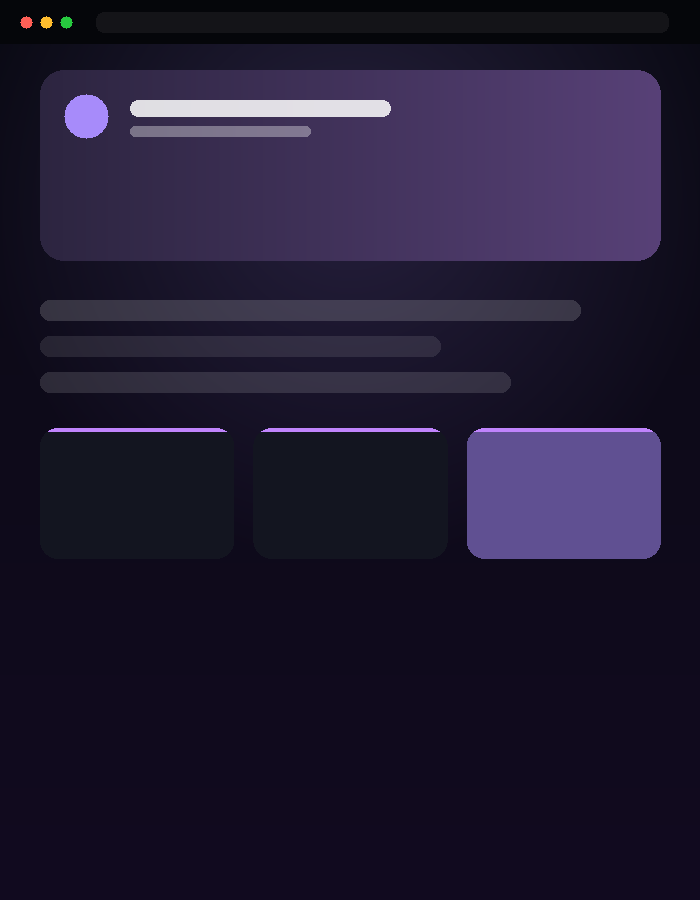
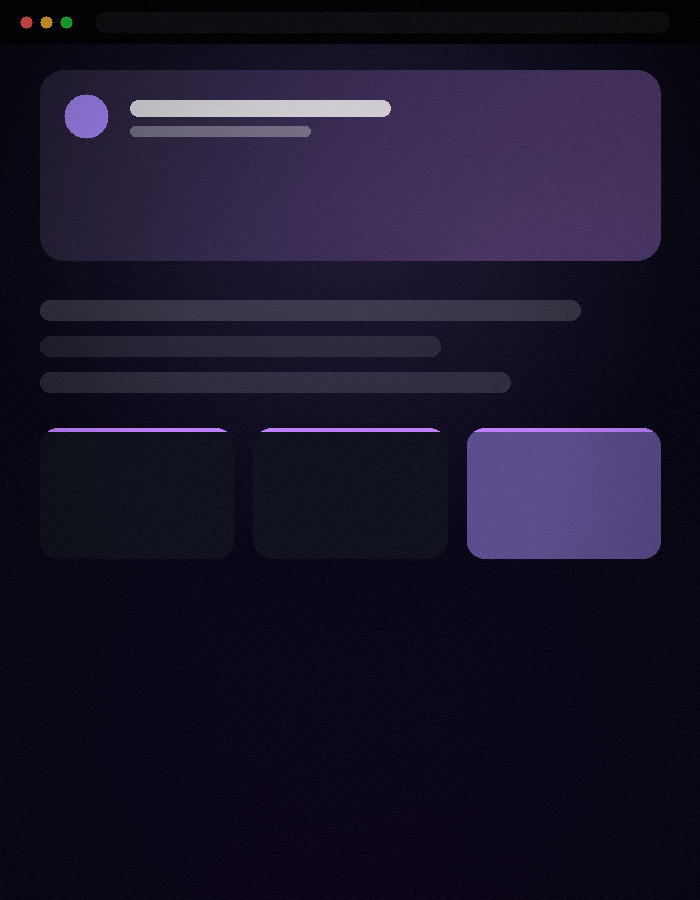
Add sliding project gallery with click-to-zoom lightbox
- New ProjectMarquee component: auto-sliding horizontal card strip
  (duplicated track for a seamless loop, pauses on hover), modeled
  after the 21st.dev homepage's card carousel
- Click any card to open a zoomed lightbox (framer-motion scale-in,
  backdrop blur, dismiss on backdrop/Escape/close button) showing the
  full image, description, and links
- Regenerated all project mockup images with subtle grain + vignette
  for a more photographic, less flat-vector look

diff --git a/styles/components/_project-marquee.scss b/styles/components/_project-marquee.scss
@@ -1,0 +1,170 @@
+.marquee {
+  overflow: hidden;
+  margin: 0 -6rem 8rem;
+  padding: 0 6rem;
+  -webkit-mask-image: linear-gradient(90deg, transparent, #000 8%, #000 92%, transparent);
+  mask-image: linear-gradient(90deg, transparent, #000 8%, #000 92%, transparent);
+
+  @media only screen and (max-width: 45em) {
+    margin: 0 -4rem 6rem;
+    padding: 0 4rem;
+  }
+
+  &__track {
+    display: flex;
+    width: max-content;
+    gap: 2.4rem;
+    animation: marqueeSlide 40s linear infinite;
+
+    &:hover {
+      animation-play-state: paused;
+    }
+  }
+
+  &__card {
+    position: relative;
+    flex: 0 0 auto;
+    width: 32rem;
+    aspect-ratio: 4 / 3;
+    border-radius: 2rem;
+    overflow: hidden;
+    border: none;
+    padding: 0;
+    cursor: pointer;
+    box-shadow: 0 2rem 5rem rgba(0, 0, 0, 0.45);
+    transition: transform 0.35s cubic-bezier(0.16, 1, 0.3, 1), box-shadow 0.35s ease;
+
+    img {
+      width: 100%;
+      height: 100%;
+      object-fit: cover;
+      display: block;
+      transition: transform 0.5s ease;
+    }
+
+    &:hover {
+      transform: translateY(-0.6rem) scale(1.02);
+      box-shadow: 0 3rem 6rem rgba(0, 217, 192, 0.2);
+
+      img {
+        transform: scale(1.06);
+      }
+    }
+  }
+
+  &__card-overlay {
+    position: absolute;
+    inset: auto 0 0 0;
+    padding: 2rem;
+    background: linear-gradient(to top, rgba(5, 6, 10, 0.9), transparent);
+    text-align: left;
+
+    h3 {
+      color: var(--color-white);
+      font-family: $font-secondary;
+      font-size: 2rem;
+      letter-spacing: -0.02em;
+      margin-top: 0.6rem;
+    }
+  }
+
+  &__card-tag {
+    font-family: $font-tertiary;
+    font-size: 1.1rem;
+    letter-spacing: 0.15em;
+    color: var(--color-accent);
+  }
+}
+
+@keyframes marqueeSlide {
+  from {
+    transform: translateX(0);
+  }
+  to {
+    transform: translateX(-50%);
+  }
+}
+
+// lightbox
+.lightbox {
+  position: fixed;
+  inset: 0;
+  z-index: 9998;
+  background: rgba(5, 6, 10, 0.85);
+  backdrop-filter: blur(12px);
+  display: flex;
+  align-items: center;
+  justify-content: center;
+  padding: 4rem;
+
+  &__panel {
+    position: relative;
+    width: min(90rem, 100%);
+    max-height: 90vh;
+    overflow-y: auto;
+    background: var(--color-bg-alt, #171e2f);
+    border: 0.2rem solid #20222e;
+    border-radius: 3rem;
+    display: flex;
+    flex-direction: column;
+
+    @media only screen and (max-width: 57em) {
+      max-height: 85vh;
+    }
+
+    img {
+      width: 100%;
+      display: block;
+      border-radius: 3rem 3rem 0 0;
+    }
+  }
+
+  &__close {
+    position: absolute;
+    top: 2rem;
+    right: 2rem;
+    width: 4rem;
+    height: 4rem;
+    border-radius: 50%;
+    border: none;
+    background: rgba(5, 6, 10, 0.7);
+    color: var(--color-white);
+    font-size: 1.6rem;
+    cursor: pointer;
+    z-index: 1;
+  }
+
+  &__info {
+    padding: 4rem;
+
+    h3 {
+      font-family: $font-secondary;
+      font-size: 3rem;
+      color: var(--color-white);
+      margin-bottom: 1.6rem;
+    }
+
+    p {
+      color: rgba(242, 242, 242, 0.75);
+      font-size: 1.6rem;
+      line-height: 150%;
+      max-width: 60rem;
+    }
+  }
+
+  &__links {
+    display: flex;
+    gap: 2.4rem;
+    margin-top: 2.4rem;
+
+    a {
+      font-family: $font-tertiary;
+      font-size: 1.4rem;
+      letter-spacing: 0.15em;
+      color: var(--color-accent);
+      text-decoration: none;
+      border-bottom: 1px solid var(--color-accent);
+      padding-bottom: 2px;
+    }
+  }
+}

diff --git a/components/ProjectMarquee.tsx b/components/ProjectMarquee.tsx
@@ -1,0 +1,92 @@
+import { useEffect, useState } from "react";
+import { AnimatePresence, motion } from "framer-motion";
+import { Project, projects } from "../data/projects";
+
+/**
+ * Auto-sliding project gallery (duplicated track for a seamless loop, pauses
+ * on hover) with a click-to-zoom lightbox — modeled after the horizontal
+ * card marquee on 21st.dev's homepage.
+ */
+export default function ProjectMarquee() {
+  const [active, setActive] = useState<Project | null>(null);
+  const track = [...projects, ...projects]; // duplicated for the seamless loop
+
+  useEffect(() => {
+    if (!active) return;
+    const onKey = (e: KeyboardEvent) => {
+      if (e.key === "Escape") setActive(null);
+    };
+    window.addEventListener("keydown", onKey);
+    return () => window.removeEventListener("keydown", onKey);
+  }, [active]);
+
+  return (
+    <>
+      <div className="marquee">
+        <div className="marquee__track">
+          {track.map((project, i) => (
+            <button
+              key={`${project.slug}-${i}`}
+              type="button"
+              className="marquee__card"
+              onClick={() => setActive(project)}
+              aria-label={`Open ${project.title} preview`}
+            >
+              <img src={project.image1} alt={`${project.title} preview`} />
+              <div className="marquee__card-overlay">
+                <span className="marquee__card-tag">{project.tags.split(",")[0]}</span>
+                <h3>{project.title}</h3>
+              </div>
+            </button>
+          ))}
+        </div>
+      </div>
+
+      <AnimatePresence>
+        {active && (
+          <motion.div
+            className="lightbox"
+            initial={{ opacity: 0 }}
+            animate={{ opacity: 1 }}
+            exit={{ opacity: 0 }}
+            transition={{ duration: 0.25 }}
+            onClick={() => setActive(null)}
+          >
+            <motion.div
+              className="lightbox__panel"
+              initial={{ opacity: 0, scale: 0.85 }}
+              animate={{ opacity: 1, scale: 1 }}
+              exit={{ opacity: 0, scale: 0.9 }}
+              transition={{ duration: 0.3, ease: [0.16, 1, 0.3, 1] }}
+              onClick={(e) => e.stopPropagation()}
+            >
+              <button
+                type="button"
+                className="lightbox__close"
+                onClick={() => setActive(null)}
+                aria-label="Close preview"
+              >
+                ✕
+              </button>
+              <img src={active.image1} alt={`${active.title} preview`} />
+              <div className="lightbox__info">
+                <h3>{active.title}</h3>
+                <p>{active.description}</p>
+                <div className="lightbox__links">
+                  <a href={active.link} target="_blank" rel="noopener">
+                    {active.linkLabel}
+                  </a>
+                  {active.github && (
+                    <a href={active.github} target="_blank" rel="noopener">
+                      GitHub ↗
+                    </a>
+                  )}
+                </div>
+              </div>
+            </motion.div>
+          </motion.div>
+        )}
+      </AnimatePresence>
+    </>
+  );
+}

diff --git a/pages/index.tsx b/pages/index.tsx
@@ -3,6 +3,7 @@ import Head from "next/head";
 import { cubicBezier, motion } from "framer-motion";
 import { Navigation } from "../components/Navigation/Navigation";
 import AnimatedGradientBackground from "../components/AnimatedGradientBackground";
+import ProjectMarquee from "../components/ProjectMarquee";
 import { projects } from "../data/projects";
 
 const locomotiveScroll =
@@ -171,6 +172,8 @@ const Home: React.FC = () => {
             <span>Yeah, I work hard </span> <small>💼</small>
           </h1>
           <p className="paragraph">Each project is unique. Here are some of my works.</p>
+
+          <ProjectMarquee />
 
           {projects.map((project) => (
             <div className="project-card" key={project.slug}>

diff --git a/styles/global.scss b/styles/global.scss
@@ -3,6 +3,7 @@
 @import "./abstract/mixins";
 @import "./components/navigations";
 @import "./components/gradient-background";
+@import "./components/project-marquee";
 @import "./pages/home";
 @import "base";
 @import "typography";
